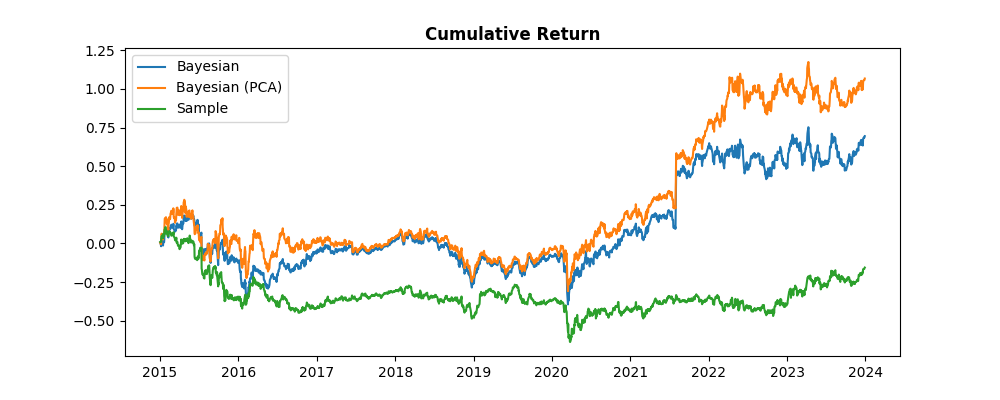
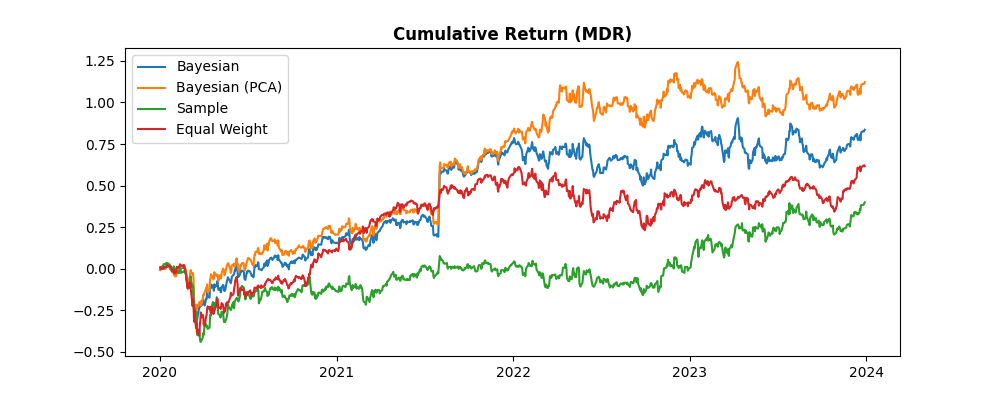
Update plots

diff --git a/src/main.py b/src/main.py
@@ -96,6 +96,7 @@ def return_compare(
     stock_return: pd.DataFrame,
     stock_data: pd.DataFrame,
     factor_return: pd.DataFrame,
+    rf_data: pd.Series,
     smart_scheme: Literal["EW", "RP", "MDR", "GMV", "MSR"],
     equal_weight: bool = False,
     mv_weight: bool = False,
@@ -111,25 +112,25 @@ def return_compare(
     with Progress(
         TextColumn("[progress.description]{task.description}"),
         BarColumn(complete_style="red bold", finished_style="green bold"),
-        TaskProgressColumn("[blue bold]{task.percentage:>3.0f}%"),
+        TaskProgressColumn("[blue bold]{task.percentage:>3.2f}%"),
         TimeRemainingColumn(compact=True),
         transient=True,
     ) as progress:
-        task = progress.add_task("Running", total=end - start)
+        task = progress.add_task("[red bold]Running", total=end - start)
         for i in range(start, end):
             time_period = (i, sample_size + i)
             # Parameters estimated via Bayesian approach (Non-PCA)
             miu, cov_mat, _ = Bayesian_Posteriors(
                 factor_return.iloc[time_period[0] : time_period[1], :], stock_return.iloc[time_period[0] : time_period[1], ::stock_slice]
             ).posterior_predictive()
-            beta = Weight_Calc(smart_scheme, miu, cov_mat).retrieve_beta()
+            beta = Weight_Calc(smart_scheme, miu, cov_mat, rf_data.iloc[time_period[1] - 1]).retrieve_beta()
             return_series.append(stock_return.iloc[time_period[1], ::stock_slice] @ beta)
 
             # Parameters estimated via Bayesian approach (PCA)
             miu_pca, cov_mat_pca, _ = Bayesian_Posteriors(
                 factor_return.iloc[time_period[0] : time_period[1], :], stock_return.iloc[time_period[0] : time_period[1], ::stock_slice], pca=True
             ).posterior_predictive()
-            beta_pca = Weight_Calc(smart_scheme, miu_pca, cov_mat_pca).retrieve_beta()
+            beta_pca = Weight_Calc(smart_scheme, miu_pca, cov_mat_pca, rf_data.iloc[time_period[1] - 1]).retrieve_beta()
             return_series_pca.append(stock_return.iloc[time_period[1], ::stock_slice] @ beta_pca)
 
             # Parameters estimated via Bayesian approach and views (assume future factor returns are known)
@@ -139,11 +140,13 @@ def return_compare(
             #         stock_return.iloc[time_period[0] : time_period[1], ::stock_slice],
             #         P="absolute",
             #         Q=np.array(factor_data.values[time_period[1], :]),
+            #         rf_data.iloc[time_period[1] - 1],
             #     ).posterior_predictive()
             # else:
             #     miu_view, cov_mat_view, _ = Bayesian_Posteriors(
             #         factor_data.iloc[time_period[0] : time_period[1], :],
             #         stock_return.iloc[time_period[0] : time_period[1], ::stock_slice],
+            #         rf_data.iloc[time_period[1] - 1]
             #     ).posterior_predictive()
             # beta_view = WeightCalc(smartScheme, miu_view, cov_mat_view).retrieve_beta()
             # return_series_view.append(stock_return.iloc[time_period[1], ::stock_slice] @ beta_view)
@@ -151,18 +154,18 @@ def return_compare(
             # Parameters estimated via sample data
             miu_sample = stock_return.iloc[time_period[0] : time_period[1], ::stock_slice].mean()
             cov_mat_sample = stock_return.iloc[time_period[0] : time_period[1], ::stock_slice].cov()
-            beta_sample = Weight_Calc(smart_scheme, miu_sample, cov_mat_sample).retrieve_beta()
+            beta_sample = Weight_Calc(smart_scheme, miu_sample, cov_mat_sample, rf_data.iloc[time_period[1] - 1]).retrieve_beta()
             return_series_sample.append(stock_return.iloc[time_period[1], ::stock_slice] @ beta_sample)
 
             # Equal weight allocation
             if equal_weight:
-                N = stock_return.iloc[::stock_slice].shape[1]
-                beta_ew = np.ones(N) / N
+                N = stock_return.iloc[time_period[1], ::stock_slice].shape[0]
+                beta_ew = np.array([1 / N for _ in range(N)])
                 return_series_ew.append(stock_return.iloc[time_period[1], ::stock_slice] @ beta_ew)
 
-            # Market value weight allocation
+            # Market value weight allocation (questionable)
             if mv_weight:
-                beta_mv = np.array(1 / stock_data.iloc[time_period[1] - 1, :])
+                beta_mv = np.array(stock_data.iloc[time_period[1] - 1, ::stock_slice] / sum(stock_data.iloc[time_period[1] - 1, ::stock_slice]))
                 return_series_mv.append(stock_return.iloc[time_period[1], ::stock_slice] @ beta_mv)
 
             print(str(stock_return.index[time_period[1]]), "finished.")
@@ -175,7 +178,7 @@ def return_compare(
         return_series_sample[i] = (1 + return_series_sample[i - 1]) * (1 + return_series_sample[i]) - 1
         if equal_weight:
             return_series_ew[i] = (1 + return_series_ew[i - 1]) * (1 + return_series_ew[i]) - 1
-        if mv_weight is not None:
+        if mv_weight:
             return_series_mv[i] = (1 + return_series_mv[i - 1]) * (1 + return_series_mv[i]) - 1
 
     x = pd.to_datetime(factor_return.index[sample_size + start : sample_size + end])
@@ -185,7 +188,7 @@ def return_compare(
     plt.plot(x, return_series_sample, label="Sample")
     if equal_weight:
         plt.plot(x, return_series_ew, label="Equal Weight")
-    if mv_weight is not None:
+    if mv_weight:
         plt.plot(x, return_series_mv, label="Market Value Weight")
     plt.title(f"Cumulative Return ({smart_scheme})", fontdict={"fontweight": "bold"})
     ax = plt.gca()
@@ -204,6 +207,7 @@ def compare_efficient_fronter(
         factor_return.iloc[date_index : date_index + sample_size, :], stock_return.iloc[date_index : date_index + sample_size, ::stock_slice]
     ).posterior_predictive()
 
+    mu_p_list = np.arange(-1e-3, 1e-3, 1e-5)
     # Bayesian approach
     R = miu
     Sigma = cov_mat
@@ -213,7 +217,6 @@ def compare_efficient_fronter(
     B = R.T @ np.linalg.inv(Sigma) @ One
     C = One.T @ np.linalg.inv(Sigma) @ One
 
-    mu_p_list = np.arange(1e-3, 1e-3, 1e-5)
     alpha_list = []
     sd_list = []
     for mu_p in mu_p_list:
@@ -237,7 +240,6 @@ def compare_efficient_fronter(
     B = R.T @ np.linalg.inv(Sigma) @ One
     C = One.T @ np.linalg.inv(Sigma) @ One
 
-    mu_p_list = np.arange(1e-3, 1e-3, 1e-5)
     alpha_list = []
     sd_list = []
     for mu_p in mu_p_list:
@@ -255,30 +257,40 @@ def compare_efficient_fronter(
 
 if __name__ == "__main__":
     base_dir = os.path.dirname(os.path.dirname(__file__))
+    # Get risk free rates
+    rf_data = pd.read_excel(os.path.join(base_dir, "data/Effective Federal Funds Rate 2014-2024.xlsx")).set_index("Date")
+    rf_data = rf_data.apply(lambda x: x / 365 / 100, axis=1)
     # Get stock universe returns
     # stock_data = pd.read_excel(os.path.join(base_dir, "data/S&P500 Daily Closing Price 2014-2024.xlsx"))
     # Get selected stock returns
     stock_data = pd.read_excel(
         os.path.join(base_dir, "data/Selected Stock Daily Closing Price 2014-2024.xlsx"), sheet_name="Selected Stock 2014-2024"
     )
-    stock_data.rename(columns={"Unnamed: 0": "Date"}, inplace=True)
-    stock_data = stock_data.replace(r"^\s*$", np.nan, regex=True).iloc[:2516, :].set_index("Date")
-    stock_return = stock_data.pct_change().iloc[1:, :].dropna(axis=1)
+    stock_data = stock_data.rename(columns={"Unnamed: 0": "Date"})
+    stock_data = stock_data.replace(r"^\s*$", np.nan, regex=True).iloc[:2516, :].set_index("Date").dropna(axis=1)
+    stock_return = stock_data.pct_change().iloc[1:, :]
 
     # Get factor data and clean data
     factor_return = Factor_Data(os.path.join(base_dir, "data/10_Industry_Portfolios_Daily.csv"), skiprows=9, nrows=25690).factor_data
-    common_index = stock_return.index.intersection(factor_return.index)
-    stock_return, factor_return, stock_data = stock_return.loc[common_index, :], factor_return.loc[common_index, :], stock_data.loc[common_index, :]
+    common_index = stock_return.index.intersection(factor_return.index).intersection(rf_data.index)
+    stock_return, factor_return, stock_data, rf_data = (
+        stock_return.loc[common_index, :],
+        factor_return.loc[common_index, :],
+        stock_data.loc[common_index, :],
+        rf_data.loc[common_index, :],
+    )
     print("Data loading and cleaning finished.")
 
     # tracking_diff(stock_return, factor_data, stock_slice=10)
-    # return_compare(
-    #     stock_return,
-    #     stock_data,
-    #     factor_return,
-    #     smart_scheme="MDR",
-    #     plot_name="return_compare_selected_MDR.png",
-    #     equal_weight=True,
-    #     mv_weight=True,
-    # )
-    compare_efficient_fronter(stock_return, factor_return, "2023-10-10")
+    return_compare(
+        stock_return,
+        stock_data,
+        factor_return,
+        rf_data,
+        smart_scheme="MDR",
+        plot_name="return_compare_selected_MDR.png",
+        equal_weight=True,
+        mv_weight=False,
+        start_date="2020-01-01",
+    )
+    # compare_efficient_fronter(stock_return, factor_return, "2016-10-10")
